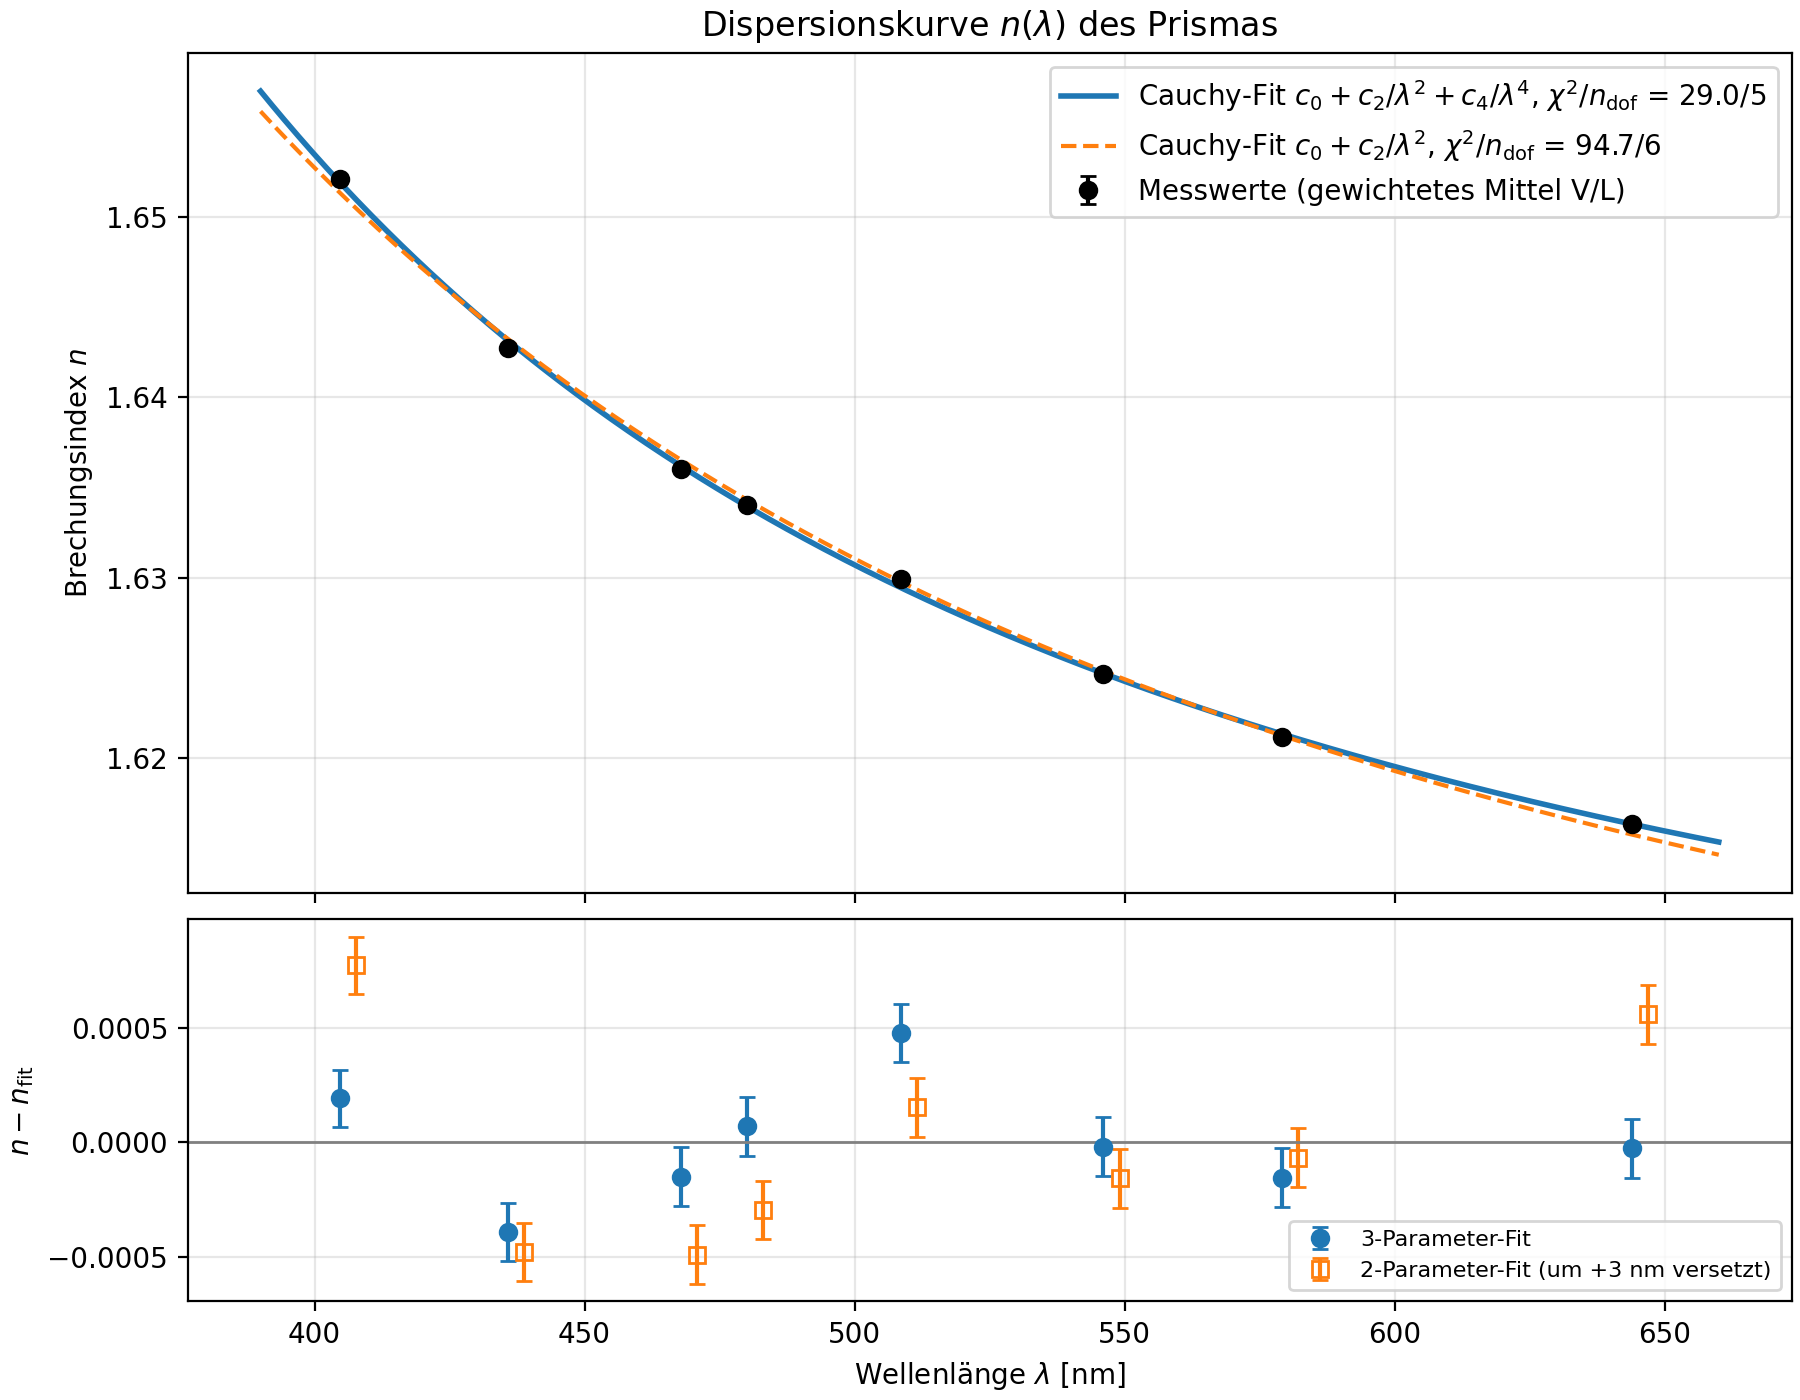
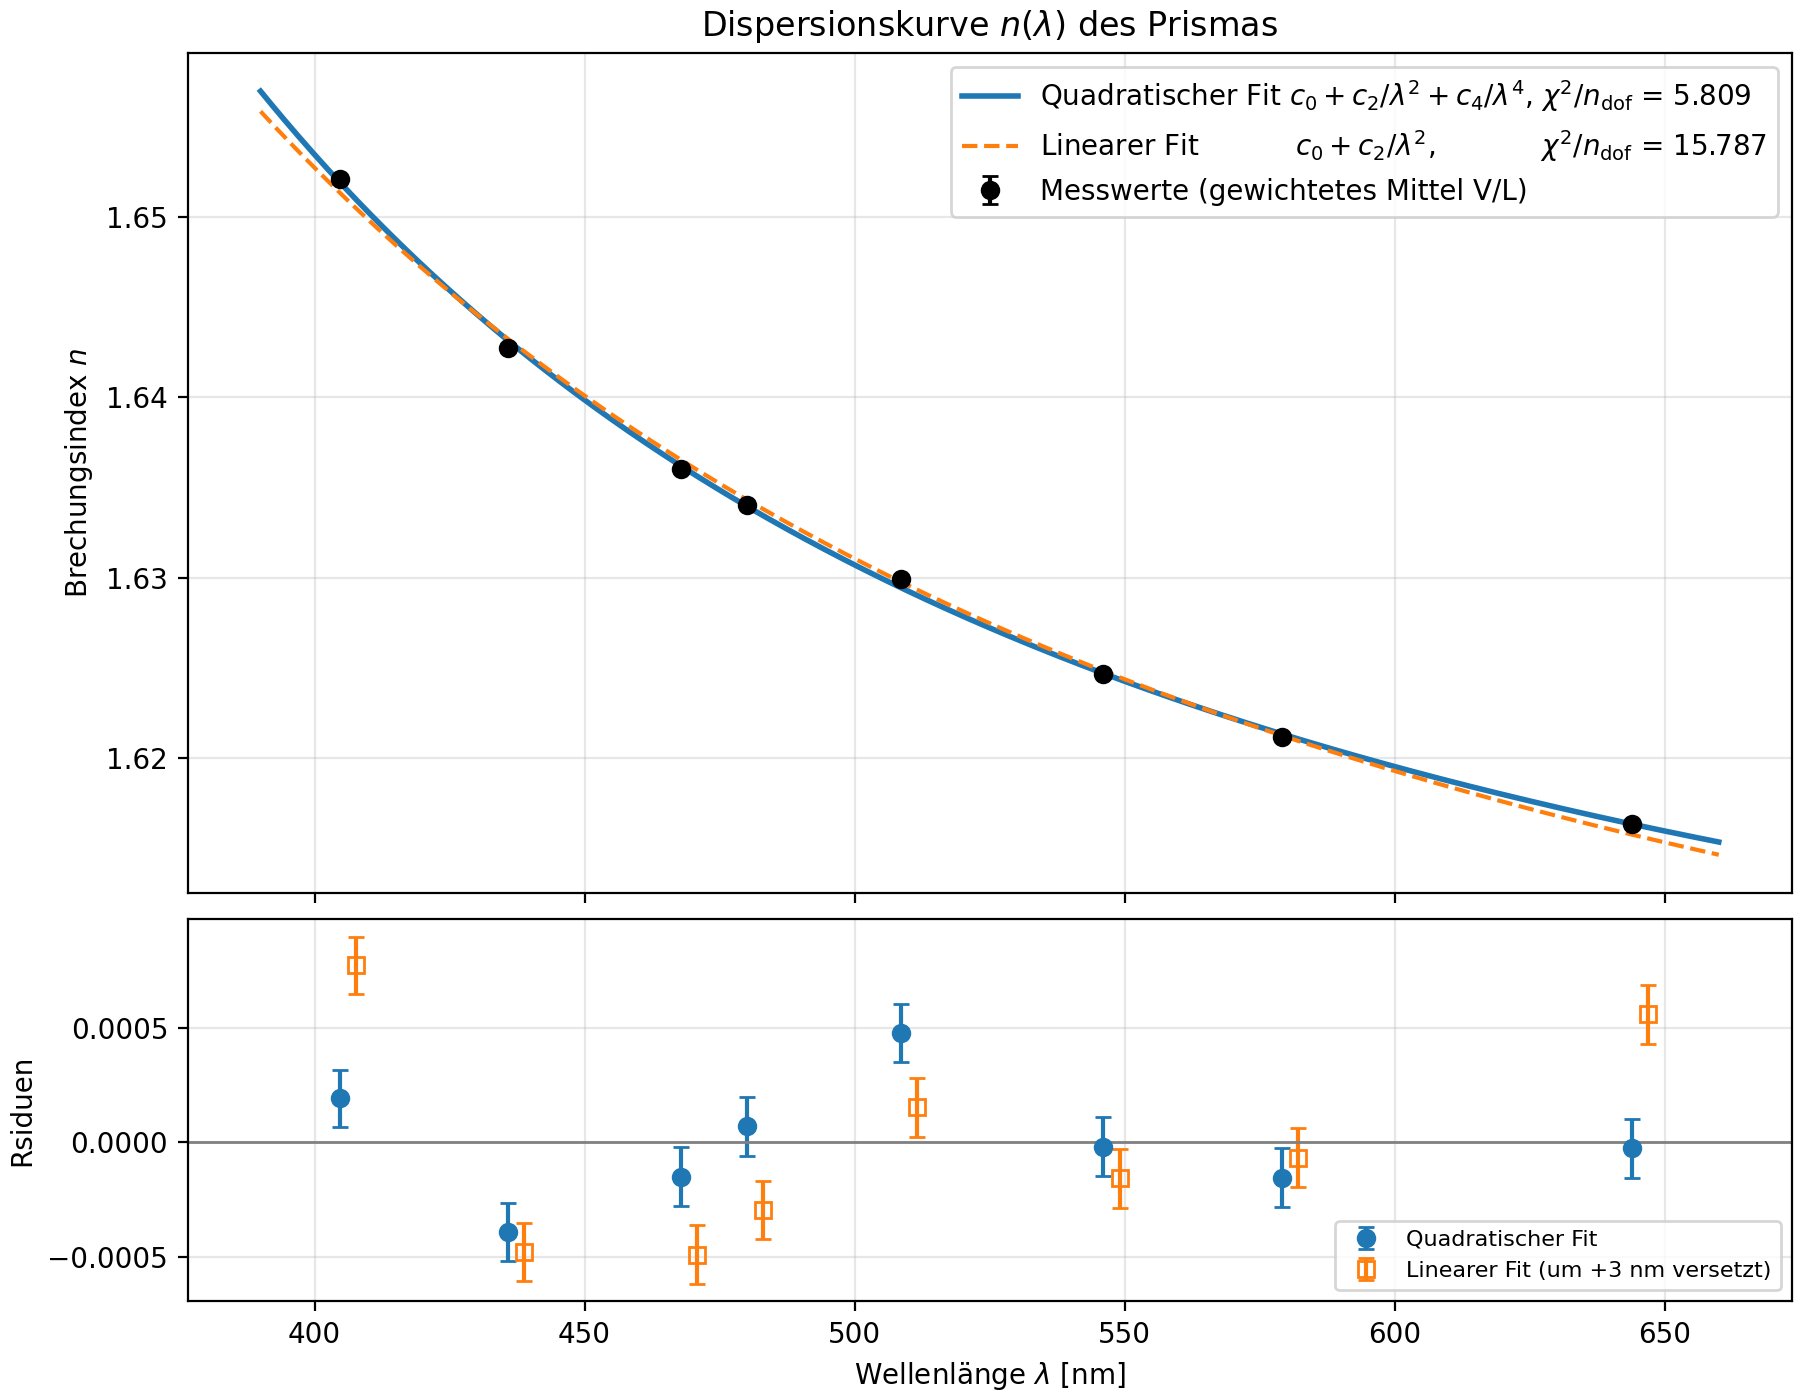
besseres script

Changed region(s): [[0.5289, 0.0614, 0.9956, 0.1536], [0.7156, 0.86, 0.8711, 0.9214], [0.0, 0.7679, 0.0311, 0.8293]]

diff --git a/V5_Optik1/Valentin/auswertung.py b/V5_Optik1/Valentin/auswertung.py
@@ -1,15 +1,3 @@
-"""
-Auswertung Versuch Optik I: Prismenspektrometer
-Gruppe B1 -- Leon Ehrhard, Valentin Aurich
-
-Unsicherheiten werden durchgehend mit dem Paket `uncertainties` propagiert.
-Jede einzelne Winkelablesung ist eine eigene (unabhaengige) Zufallsvariable,
-deren Unsicherheit die Standardabweichung aus der Rauschmessung DER PERSON ist,
-die den Winkel abgelesen hat (Valentin -> sigma_V, Leon -> sigma_L).
-Aus den beiden unabhaengigen Messreihen ergibt sich pro Linie ein n_V und ein n_L,
-die zu einem gewichteten Mittelwert n (mit Unsicherheit auf den Mittelwert)
-zusammengefasst werden.
-"""
 import matplotlib.pyplot as plt
 import matplotlib.ticker as ticker
 import numpy as np
@@ -43,7 +31,7 @@ Data_Linien = {
     'dunkellila': {'psi1': [(312,  0), (311, 57)], 'psi2': [(209, 12), (209, 11)]},
 }
 
-# Wellenlaengen der HgCd-Lampe in nm (Tabelle 6.2 der Anleitung)
+# Wellenlaengen der HgCd-Lampe in nm
 Lambda_Linien = {
     'rot':        643.85,   # Cd
     'gelb':       579.07,   # Hg (laengerwelliger Teil der gelben Doppellinie)
@@ -55,10 +43,8 @@ Lambda_Linien = {
     'dunkellila': 404.66,   # Hg
 }
 
-# Schlitzblenden-Messung zum Aufloesungsvermoegen (gelbe Hg-Doppellinie)
-SPALT_NOCH_AUFGELOEST_MM  = 2.5    # kleinste Blendenbreite, bei der die Doppellinie noch getrennt war
-SPALT_NICHT_AUFGELOEST_MM = 2      # groesste Blendenbreite, bei der sie nicht mehr getrennt war
-
+SPALT_NOCH_AUFGELOEST_MM  = 2.5    
+SPALT_NICHT_AUFGELOEST_MM = 2      
 
 def grad_bogenminuten_dezimal(grad, bogenminuten):
     return grad + bogenminuten / 60
@@ -82,9 +68,6 @@ def fmt_u(x, stellen=5):
     return f'{x.nominal_value:.{stellen}f} +/- {x.std_dev:.{stellen}f}'
 
 
-# ---------------------------------------------------------------------------
-# Aufgabe 1: Rauschmessung
-# ---------------------------------------------------------------------------
 Noise_Valentin = np.array([grad_bogenminuten_dezimal(g, b) for g, b in Data_Noise_Valentin])
 Noise_Leon     = np.array([grad_bogenminuten_dezimal(g, b) for g, b in Data_Noise_Leon])
 
@@ -97,10 +80,20 @@ def rauschmessung(DATA, dateiname='Rauschmessung', Name='Person'):
 
     fig, ax = plt.subplots(figsize=(7, 4.5))
     ax.hist(DATA, bins=bins, edgecolor='black', linewidth=1, label='Rauschmessung')
-    ax.axvline(mean, color='tab:red', ls='--',
-               label=f"Mittelwert = {int(mean)}°{(mean - int(mean)) * 60:.1f}'")
-    ax.axvspan(mean - std, mean + std, color='tab:grey', alpha=0.25, zorder=0,
-               label=f"$\\pm\\sigma$ = $\\pm${std * 60:.2f}'")
+    ax.axvline(
+        mean,
+        color='tab:red',
+        ls='--',
+        label=f"Mittelwert = {int(mean)}°{(mean - int(mean)) * 60:.1f}'"
+        )
+    ax.axvspan(
+        mean - std,
+        mean + std,
+        color='tab:grey',
+        alpha=0.25,
+        zorder=0,
+        label=f"$\\pm\\sigma$ = $\\pm${std * 60:.2f}'"
+        )
     ax.set_xlabel('Ablesewinkel $\\psi$')
     ax.set_ylabel('Häufigkeit')
     ax.set_title(f'Rauschmessung der Winkelablesung ({Name})')
@@ -126,13 +119,10 @@ for name, m, s in [('Valentin', V_mittel, V_std), ('Leon', L_mittel, L_std)]:
           f"sigma_Mittelwert = {s * 60 / np.sqrt(N_noise):.3f}'")
 diff_mittel = (V_mittel - L_mittel) * 60
 sig_diff = np.sqrt(V_std**2 + L_std**2) * 60 / np.sqrt(N_noise)
-print(f"Differenz der Mittelwerte V-L = {diff_mittel:.2f}' +/- {sig_diff:.2f}'  "
-      f"({diff_mittel / sig_diff:.1f} sigma)")
+print(f"Differenz der Mittelwerte V-L = {diff_mittel:.2f}' +/- {sig_diff:.2f}'  ")
+print(f"({diff_mittel / sig_diff:.1f} sigma)")
 
 
-# ---------------------------------------------------------------------------
-# Aufgabe 2: Brechungsindex pro Linie
-# ---------------------------------------------------------------------------
 def brechungsindex(psi1, psi2):
     delta = (psi1 - psi2) / 2
     n = umath.sin((umath.radians(delta) + EPS_RAD) / 2) / np.sin(EPS_RAD / 2)
@@ -145,7 +135,6 @@ def linien_auswertung(Data_Linien, V_std, L_std):
         psi1_dec = [grad_bogenminuten_dezimal(g, b) for g, b in d['psi1']]
         psi2_dec = [grad_bogenminuten_dezimal(g, b) for g, b in d['psi2']]
 
-        # jede Ablesung ist eine eigene Zufallsvariable mit der sigma der ablesenden Person
         psi1_V = un.ufloat(psi1_dec[0], V_std, tag=f'psi1_V {farbe}')
         psi2_V = un.ufloat(psi2_dec[0], V_std, tag=f'psi2_V {farbe}')
         psi1_L = un.ufloat(psi1_dec[1], L_std, tag=f'psi1_L {farbe}')
@@ -154,18 +143,17 @@ def linien_auswertung(Data_Linien, V_std, L_std):
         delta_V, n_V = brechungsindex(psi1_V, psi2_V)
         delta_L, n_L = brechungsindex(psi1_L, psi2_L)
 
-        # gewichteter Mittelwert der beiden unabhaengigen Messungen
+        # gewichteter Mittelwert der beiden unabhängigen Messungen
         w_V = 1 / n_V.std_dev**2
         w_L = 1 / n_L.std_dev**2
         n_mean = (w_V * n_V + w_L * n_L) / (w_V + w_L)
         delta_mean = (w_V * delta_V + w_L * delta_L) / (w_V + w_L)
 
-        # Vertraeglichkeit der beiden Messungen
+        # Verträglichkeit der beiden Messungen
         diff = n_V - n_L
         pull = diff.nominal_value / diff.std_dev
 
-        ergebnisse[farbe] = dict(delta_V=delta_V, delta_L=delta_L, delta=delta_mean,
-                                 n_V=n_V, n_L=n_L, n=n_mean, pull=pull)
+        ergebnisse[farbe] = dict(delta_V=delta_V, delta_L=delta_L, delta=delta_mean, n_V=n_V, n_L=n_L, n=n_mean, pull=pull)
     return ergebnisse
 
 
@@ -180,32 +168,25 @@ print('\n=== Brechungsindizes ===')
 print(f"{'Linie':11s} {'lam/nm':>7s} {'delta_V':>12s} {'delta_L':>12s} {'n_V':>18s} {'n_L':>18s} {'n (Mittel)':>18s} {'pull':>6s}")
 for f in farben:
     e = Erg[f]
-    print(f"{f:11s} {Lambda_Linien[f]:7.2f} {e['delta_V'].nominal_value:8.4f}±{e['delta_V'].std_dev:.4f}"
+    print(f"{f:11s} {Lambda_Linien[f]:7.2f} {e['delta_V'].nominal_value:8.4f}±{e['delta_V'].std_dev:.4f}" 
           f" {e['delta_L'].nominal_value:8.4f}±{e['delta_L'].std_dev:.4f}"
           f" {fmt_u(e['n_V'])} {fmt_u(e['n_L'])} {fmt_u(e['n'])} {e['pull']:6.2f}")
 chi2_VL = sum(Erg[f]['pull']**2 for f in farben)
 print(f"Vertraeglichkeit V/L: chi2 = {chi2_VL:.2f} bei {len(farben)} Freiheitsgraden, "
       f"p = {chi2_dist.sf(chi2_VL, len(farben)):.3f}")
 
-# Beitraege zur Unsicherheit exemplarisch (gelbe Linie)
+# Beitraege zur Unsicherheit (gelbe Linie)
 print('\nFehlerbeitraege zu n (gelb):')
 for var, beitrag in Erg['gelb']['n'].error_components().items():
     print(f'   {var.tag:18s}: {beitrag:.2e}')
 
-# ---------------------------------------------------------------------------
-# Anpassung: vereinfachte Sellmeier-Formel = Cauchy-Formel
-# lambda in Mikrometer -> gut konditionierte Parameter
-# ---------------------------------------------------------------------------
 lam_um = lam_arr / 1000
 
-
-def cauchy3(lam, c0, c2, c4):
+def quadrat(lam, c0, c2, c4):
     return c0 + c2 / lam**2 + c4 / lam**4
 
-
-def cauchy2(lam, c0, c2):
+def linear(lam, c0, c2):
     return c0 + c2 / lam**2
-
 
 def anpassung(func, p0):
     popt, pcov = curve_fit(func, lam_um, n_nom, sigma=n_err, absolute_sigma=True, p0=p0)
@@ -215,8 +196,8 @@ def anpassung(func, p0):
     return popt, pcov, res, chi2, ndof
 
 
-popt3, pcov3, res3, chi2_3, ndof3 = anpassung(cauchy3, [1.6, 0.01, 0.0])
-popt2, pcov2, res2, chi2_2, ndof2 = anpassung(cauchy2, [1.6, 0.01])
+popt3, pcov3, res3, chi2_3, ndof3 = anpassung(quadrat, [1.6, 0.01, 0.0])
+popt2, pcov2, res2, chi2_2, ndof2 = anpassung(linear, [1.6, 0.01])
 par3 = un.correlated_values(popt3, pcov3)
 par2 = un.correlated_values(popt2, pcov2)
 
@@ -256,37 +237,33 @@ ax.errorbar(
     )
 ax.plot(
     lam_fein * 1000,
-    cauchy3(lam_fein, *popt3),
+    quadrat(lam_fein, *popt3),
     color='tab:blue', lw=2,
-    label=f'Cauchy-Fit $c_0+c_2/\\lambda^2+c_4/\\lambda^4$, $\\chi^2/n_\\mathrm{{dof}}$ = {chi2_3:.1f}/{ndof3}'
+    label=f'Quadratischer Fit $c_0+c_2/\\lambda^2+c_4/\\lambda^4$, $\\chi^2/n_\\mathrm{{dof}}$ = {chi2_3/ndof3:.3f}'
     )
 ax.plot(
     lam_fein * 1000,
-    cauchy2(lam_fein, *popt2),
+    linear(lam_fein, *popt2),
     color='tab:orange',
     lw=1.5,
     ls='--',
-    label=f'Cauchy-Fit $c_0+c_2/\\lambda^2$, $\\chi^2/n_\\mathrm{{dof}}$ = {chi2_2:.1f}/{ndof2}'
+    label=f'Linearer Fit           $c_0+c_2/\\lambda^2$,            $\\chi^2/n_\\mathrm{{dof}}$ = {chi2_2/ndof2:.3f}'
     )
 ax.set_ylabel('Brechungsindex $n$')
 ax.set_title('Dispersionskurve $n(\\lambda)$ des Prismas')
 ax.grid(alpha=0.3)
 ax.legend()
 
-rs.errorbar(lam_arr, res3, yerr=n_err, fmt='o', capsize=3, color='tab:blue', label='3-Parameter-Fit')
-rs.errorbar(lam_arr + 3, res2, yerr=n_err, fmt='s', capsize=3, color='tab:orange', mfc='none', label='2-Parameter-Fit (um +3 nm versetzt)')
+rs.errorbar(lam_arr, res3, yerr=n_err, fmt='o', capsize=3, color='tab:blue', label='Quadratischer Fit')
+rs.errorbar(lam_arr + 3, res2, yerr=n_err, fmt='s', capsize=3, color='tab:orange', mfc='none', label='Linearer Fit (um +3 nm versetzt)')
 rs.axhline(0, color='grey', lw=1)
 rs.set_xlabel('Wellenlänge $\\lambda$ [nm]')
-rs.set_ylabel('$n - n_\\mathrm{fit}$')
+rs.set_ylabel('Rsiduen')
 rs.grid(alpha=0.3)
 rs.legend(fontsize=8)
 fig.savefig(OUTPUT / 'Dispersionskurve.png', dpi=200)
 plt.close(fig)
 
-
-# ---------------------------------------------------------------------------
-# Vergleich mit Herstellerangaben (SCHOTT-Sellmeier-Koeffizienten, lambda in um)
-# ---------------------------------------------------------------------------
 
 n_F2_kat = np.array(n_schott_f2(lam_um))
 n_nsf10_kat = np.array(n_schott_nsf10(lam_um))
@@ -320,8 +297,7 @@ def n_von_eps(delta_deg, eps_deg):
     return np.sin(np.deg2rad(delta_deg + eps_deg) / 2) / np.sin(np.deg2rad(eps_deg) / 2)
 
 
-popt_eps, pcov_eps = curve_fit(lambda d, e: n_von_eps(d, e), delta_nom, n_F2_kat, p0=[60.0],
-                               sigma=n_err, absolute_sigma=True)
+popt_eps, pcov_eps = curve_fit(lambda d, e: n_von_eps(d, e), delta_nom, n_F2_kat, p0=[60.0], sigma=n_err, absolute_sigma=True)
 eps_fit = un.ufloat(popt_eps[0], np.sqrt(pcov_eps[0, 0]))
 chi2_eps = np.sum(((n_von_eps(delta_nom, popt_eps[0]) - n_F2_kat) / n_err)**2)
 print(f"epsilon, das Messung und F2 zur Deckung bringt: {eps_fit} deg "
@@ -366,7 +342,7 @@ ax.legend()
 
 rs.errorbar(lam_arr, n_nom - n_F2_kat, yerr=n_err, fmt='o', capsize=3, color='black', label='$n_\\mathrm{mess}-n_\\mathrm{F2}$')
 rs.plot(lam_fein * 1000,
-        cauchy3(lam_fein, *popt3) - n_schott_f2(lam_fein),
+        quadrat(lam_fein, *popt3) - n_schott_f2(lam_fein),
         color='tab:blue',
         label='Cauchy-Fit $-$ F2 (Literaturwert)'
         )
@@ -378,26 +354,22 @@ fig.savefig(OUTPUT / 'Vergleich_Hersteller.png', dpi=200)
 plt.close(fig)
 
 
-# ---------------------------------------------------------------------------
-# Aufgabe 3: Aufloesungsvermoegen an der gelben Hg-Doppellinie
-# ---------------------------------------------------------------------------
-lam1, lam2 = 576.96, 579.07                 # nm
+
+lam1, lam2 = 576.96, 579.07
 lam_m = (lam1 + lam2) / 2
 dlam = lam2 - lam1
 A_noetig = lam_m / dlam                      
 
-# Dispersion dn/dlambda bei lam_m aus dem Fit (korrelierte Parameter!)
 c0, c2, c4 = par3
 lam_m_um = lam_m / 1000
-dn_dlam = (-2 * c2 / lam_m_um**3 - 4 * c4 / lam_m_um**5) / 1000   # in 1/nm
+dn_dlam = (-2 * c2 / lam_m_um**3 - 4 * c4 / lam_m_um**5) / 1000
 dn_dlam_2 = (-2 * par2[1] / lam_m_um**3) / 1000
 
-# Minimalablenkung der gelben Linie (Messung)
+
 delta_gelb = Erg['gelb']['delta']
 cos_term = umath.cos((umath.radians(delta_gelb) + EPS_RAD) / 2)
-geo = 2 * np.sin(EPS_RAD / 2) / cos_term            # A = dn/dlam * d * geo  (Glg. 6.14)
+geo = 2 * np.sin(EPS_RAD / 2) / cos_term
 
-# Bei welcher Buendelbreite d wird die Doppellinie gerade noch aufgeloest?
 d_grenz_erwartet_nm = A_noetig / (-dn_dlam * geo)
 print('\n=== Aufloesungsvermoegen ===')
 print(f'lambda/dlambda (benoetigt) = {A_noetig:.1f}')
@@ -406,7 +378,7 @@ print(f'dn/dlambda bei {lam_m:.2f} nm: 3-Par-Fit = {dn_dlam * 1e5:.3f}e-5 /nm, '
 print(f'delta_min(gelb) = {delta_gelb:.4f} °,  2 sin(eps/2)/cos((delta+eps)/2) = {geo:.4f}')
 print(f'erwartete Grenz-Buendelbreite d = {d_grenz_erwartet_nm / 1e6:.3f} mm')
 
-# Aufloesungsvermoegen pro mm Buendelbreite
+
 A_pro_mm = -dn_dlam * geo * 1e6
 print(f'A(d) = {A_pro_mm:.1f} * d/mm')
 
